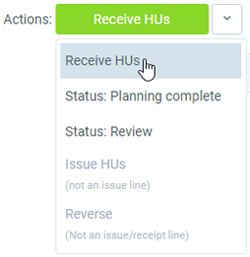
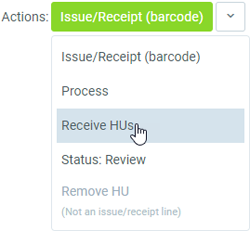
Updated ref productioncompletion in EN
(this is about issue #267 )

diff --git a/_webui_collection/EN/ProductionCompletion.md b/_webui_collection/EN/ProductionCompletion.md
@@ -15,43 +15,45 @@ metasfresh offers two possibilities to record the consumption of materials for p
 1. Produce a product and record the consumption of materials.
 
 ## Preparation
-Prior to production, ensure that all the required products to be consumed are on stock. For information on how to create a Goods Receipt, see [here](CreateGoodsReceipt).
+Prior to production, ensure that all the required products to be consumed are on stock. For information on how to create a goods receipt, see [here](CreateGoodsReceipt).
 
 ## Steps
-1. Open a [completed Manufacturing Order](NewManufacturingOrder).
+1. Open a [completed manufacturing order](NewManufacturingOrder).
 1. [Start the action](StartAction) "Issue/Receipt". The production window "PP Order Issue/Receipt" opens up.
- >**Note:** If you have selected the Manufacturing Order in the list view, you can also go to the [quick actions](StartAction) button at the top right to start the action ![](assets/Actionbutton_IssueReceipt.png).
+ >**Note:** If you have selected the manufacturing order in the list view, you can also go to the [quick actions](StartAction) button at the top right to start the action ![](assets/Actionbutton_IssueReceipt.png).
 
 ### 1. Produce a product without consuming material
-This is the easiest way to produce in metasfresh. The produced quantity is simply added to the account without booking the required products from the bill of material (BOM).
+This is the easiest way to produce in metasfresh. The produced quantity is simply added to the account without booking the required products from the bill of materials (BOM).
 
-1. In the production window, click on the product you want to produce, e.g. "Carrots chopped".
+1. In the production window, select the product (**MP**) you want to produce, e.g. "Carrots chopped".
  ![](assets/ProductionCompletion_ProductionWindow.png)
 
 1. Select "Receive HUs" via the quick actions button.<br>
  ![](assets/ProductionCompletion_Receive_1.png)<br>
- >**Note:** If the product was assigned Packing Instructions, this will appear on the quick actions button instead of "Receive HUs".
+ >**Note:** If the product has packing instructions, this will appear on the quick actions button instead of "Receive HUs".
    ![](assets/ProductionCompletion_Receive_2.png)
 
 1. A new window opens up.
  ![](assets/ProductionCompletion_ReceiveWindow.png)
 
-1. In the field **Quantity CU** enter the completed quantity of the product.
+1. ***Optional:*** Select **TU Packing Instructions**.
+1. ***Optional:*** Select **LU Packing Instructions**.
+1. In the field **CU Quantity** enter the received quantity of the product.
+1. In the field **TU Quantity** enter the number of transport units.
+ >**Note 1:** The field **TU Quantity** appears only if **TU Packing Instructions** are available.<br><br>
+ >**Note 2:** The TU Quantity must be **at least 1**.
 
-1. In the field **Quantity TU** enter the quantity of the packing units.
- >**Note 1:** The field **Quantity TU** appears only if **Packing Instructions TU** are available.<br><br>
- >**Note 2:** The Quantity TU must be **at least 1**.
+1. In the field **LU Quantity** enter the number of loading units.
+ >**Note 1:** The field **LU Quantity** appears only if **LU Packing Instructions** are available.<br><br>
+ >**Note 2:** The field **LU Packing Instructions** appears only if **TU Packing Instructions** are available.<br><br>
+ >**Note 3:** The LU Quantity must be **at least 1**.
 
-1. In the field **Quantity LU** enter the quantity of loading equipment.
- >**Note 1:** The field **Quantity LU** appears only if **Packing Instructions LU** are available.<br><br>
- >**Note 2:** The field **Packing Instructions LU** appears only if **Packing Instructions TU** are available.
-
-1. Click "Start" to save the assignment and close the window.
-
-1. When the assignment was successful you will find the assigned products underneath the product to be produced:
+1. Click "Start" to record the received HUs and close the window.
+1. When the allocation was successful, the received HUs will be listed below the product to be produced:
  ![](assets/ProductionCompletion_Assignment.png)
+ >**Note:** If you want to reverse the allocation, simply select the added HU, go to the quick actions button and click "Remove HU".
 
-1. Select "Status: Planning complete" via the quick actions button to make the material posting. This makes the lines read-only:
+1. Select "Process" via the quick actions button to make the material posting. This makes the lines read-only:
  ![](assets/ProductionCompletion_PlanningComplete.png)
 
 1. Click "Done" to close the window.
@@ -59,25 +61,28 @@ This is the easiest way to produce in metasfresh. The produced quantity is simpl
 ## Example 1
 ![](assets/ProductionCompletion_walkthrough.gif)
 
+---
+
 ### 2. Produce a product and record the consumption of materials
 The products required for the production are booked from the BOM. Adding the produced quantity works as described above.
 
-1. In the production window, click on the component (**CO**) you want to book from the BOM, e.g. "Carrots unwashed".
+1. In the production window, select the component (**CO**) you want to book from the BOM, e.g. "Carrots unwashed".
  ![](assets/ProductionCompletion_MaterialConsumption.png)
 
-1. Select "Issue HUs" via the quick actions button.<br>
- ![](assets/ProductionCompletion_Issue.png)
+1. Select "Open HU Selection Window" via the quick actions button.<br>
+ ![](assets/Open_HU-Selection-Window.png)
 
 1. An overview of the matching handling units (HU) from stock opens up.
  ![](assets/ProductionCompletion_StockOverview.png)
 
 1. Select the HU to be consumed for production.
-
-1. Select "Issue selected HUs" via the actions button.
-
-1. When the booking was successful, you will find the booked products below the component.
+1. Select "Issue complete HUs" via the actions button.
+1. When the allocation was successful, you will find the issued HU below the component.
 ![](assets/ProductionCompletion_Booked.png)
- >**Note:** If you want to reverse the booking, simply select the added HU, go to the quick actions button and click ![](assets/Actionbutton_Reverse.png).
+ >**Note:** If you want to reverse the booking, simply select the added HU, go to the quick actions button and click "Remove HU".
+
+1. Select "Process" via the quick actions button to book the HUs. This makes the lines read-only:
+ ![](assets/HU_booking_readonly.png)
 
 1. Click "Done" to close the window.
 
